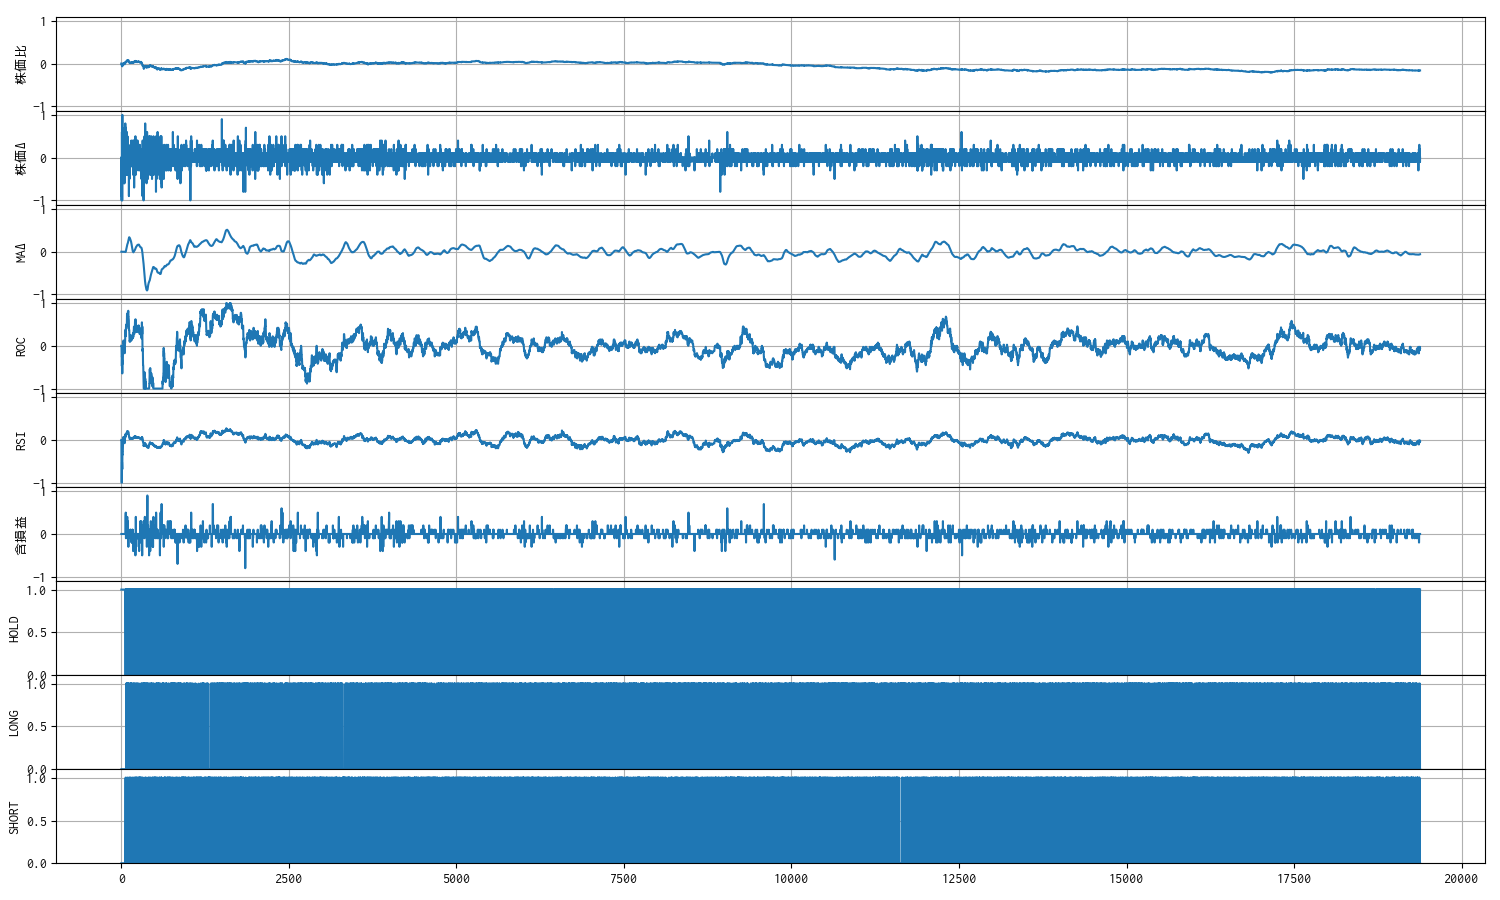
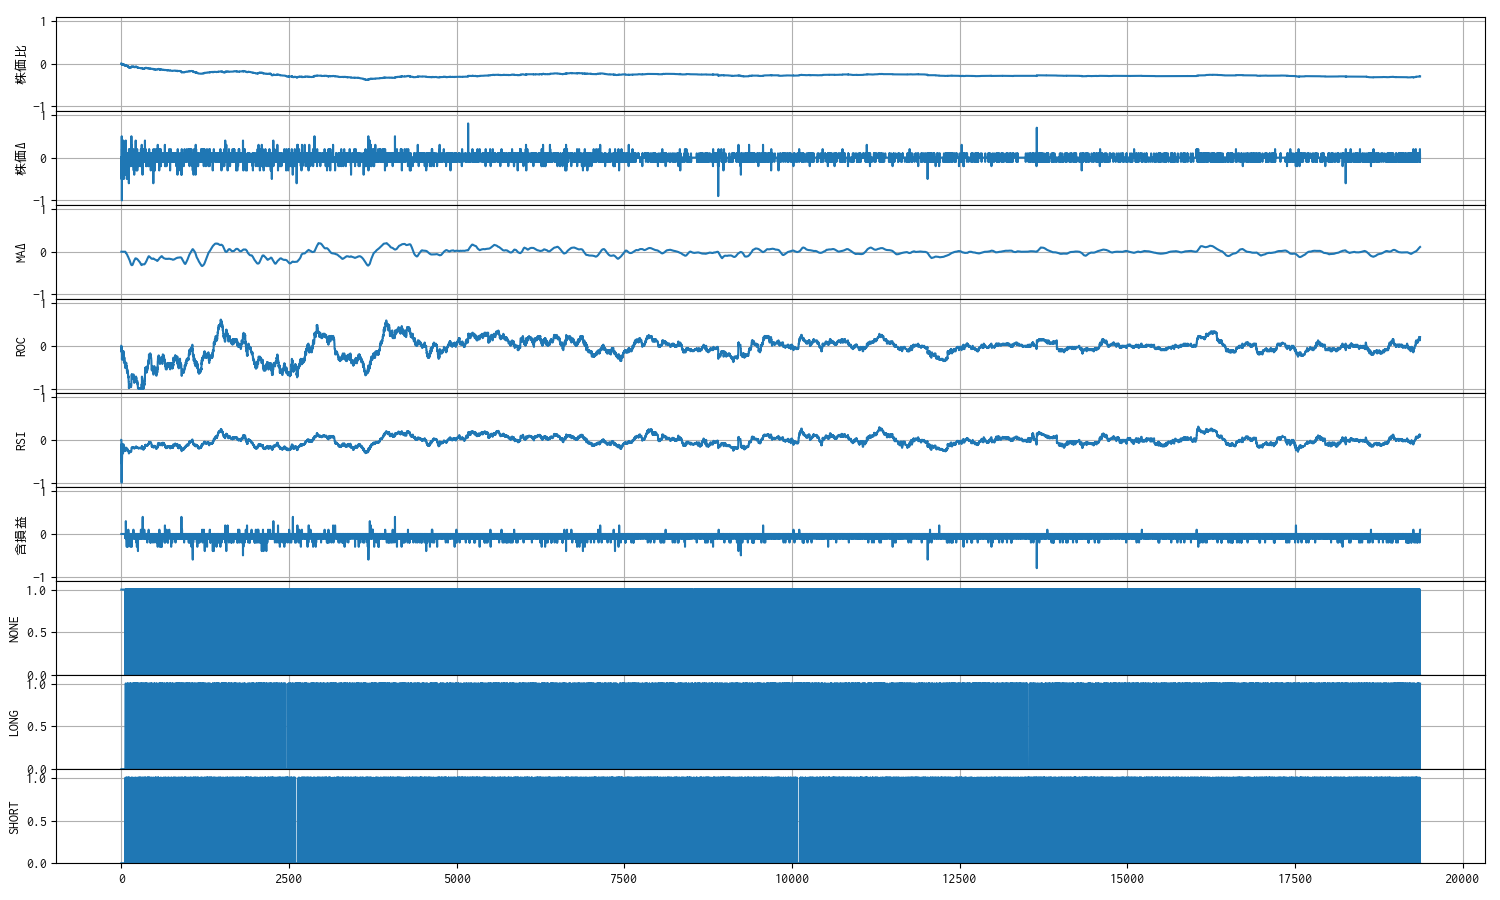
update

diff --git a/eval_inference_sb3.py b/eval_inference_sb3.py
@@ -1,5 +1,28 @@
+import matplotlib.font_manager as fm
+import matplotlib.pyplot as plt
+import pandas as pd
+
 from modules.agent import PPOAgentSB3
 from structs.res import AppRes
+
+FONT_PATH = "fonts/RictyDiminished-Regular.ttf"
+fm.fontManager.addfont(FONT_PATH)
+
+# FontPropertiesオブジェクト生成（名前の取得のため）
+font_prop = fm.FontProperties(fname=FONT_PATH)
+font_prop.get_name()
+
+plt.rcParams["font.family"] = font_prop.get_name()
+
+
+def plot_reward_distribution(ser: pd.Series):
+    plt.hist(ser, bins=20)
+    plt.title("Reward Distribution")
+    plt.xlabel("Reward")
+    plt.ylabel("Frequency")
+    plt.grid()
+    plt.show()
+
 
 if __name__ == "__main__":
     res = AppRes()
@@ -9,4 +32,19 @@ if __name__ == "__main__":
     file = "ticks_20250819.xlsx"
     code = "7011"
 
+    print(f"過去データ {file} の銘柄 {code} について推論します。")
     agent.infer(file, code)
+
+    # 取引結果
+    df_transaction: pd.DataFrame = agent.results["transaction"]
+    print(df_transaction)
+    print(f"一株当りの損益 : {df_transaction['損益'].sum()} 円")
+
+    print("モデルへの報酬分布")
+    ser_reward = pd.Series(agent.results["reward"])
+    print(
+        f"n: {len(ser_reward)}, "
+        f"mean: {ser_reward.mean():.3f}, "
+        f"stdev: {ser_reward.std():.3f}"
+    )
+    plot_reward_distribution(ser_reward)

diff --git a/modules/agent.py b/modules/agent.py
@@ -7,7 +7,7 @@ from stable_baselines3.common.monitor import Monitor
 
 from funcs.commons import get_collection_path
 from funcs.ios import get_excel_sheet
-from funcs.models import get_ppo_model_path, get_ppo_model_new, get_trained_ppo_model_path
+from funcs.models import get_ppo_model_path, get_trained_ppo_model_path
 from modules.agent_auxiliary import ActionMaskWrapper
 from modules.env import TrainingEnv
 from structs.res import AppRes
@@ -18,6 +18,8 @@ class PPOAgentSB3:
         super().__init__()
         self.res = res
         self.env_raw = None
+        self.results = dict()
+        self.results["reward"] = list()
 
     def get_env(self, file: str, code: str) -> Monitor:
         # Excel ファイルをフルパスに
@@ -80,10 +82,11 @@ class PPOAgentSB3:
         while not done:
             action, _states = model.predict(obs)
             obs, reward, done, truncated, info = env.step(action)
+            # 報酬分布作成用
+            self.results["reward"].append(reward)
 
-        df_transaction = pd.DataFrame(self.env_raw.trans_man.dict_transaction)
-        print(df_transaction)
-        print(f"一株当りの損益 : {df_transaction['損益'].sum()} 円")
+        # 取引内容
+        self.results["transaction"] = self.env_raw.getTransaction()
 
         # 学習環境の解放
         env.close()

diff --git a/eval_training.py b/eval_training.py
@@ -59,8 +59,8 @@ if __name__ == "__main__":
 
     # 学習用データフレーム
     code = "7011"
-    list_file = sorted(os.listdir(res.dir_collection))
-    #list_file = ["ticks_20250819.xlsx"]
+    # list_file = sorted(os.listdir(res.dir_collection))
+    list_file = ["ticks_20250819.xlsx"]
     for idx, file in enumerate(list_file):
         path_excel = os.path.join(res.dir_collection, file)
         df_code = get_excel_sheet(path_excel, code)
@@ -106,7 +106,7 @@ if __name__ == "__main__":
         "ROC",
         "RSI",
         "含損益",
-        "HOLD",
+        "NONE",
         "LONG",
         "SHORT"
     ]

diff --git a/modules/env.py b/modules/env.py
@@ -440,6 +440,9 @@ class TradingEnv(gym.Env):
     def _get_tick(self) -> tuple[float, float, float]:
         ...
 
+    def getTransaction(self) -> pd.DataFrame:
+        return pd.DataFrame(self.trans_man.dict_transaction)
+
     def reset(self, seed=None, options=None) -> tuple[np.ndarray, dict]:
         self.step_current = 0
         self.trans_man.clear()
